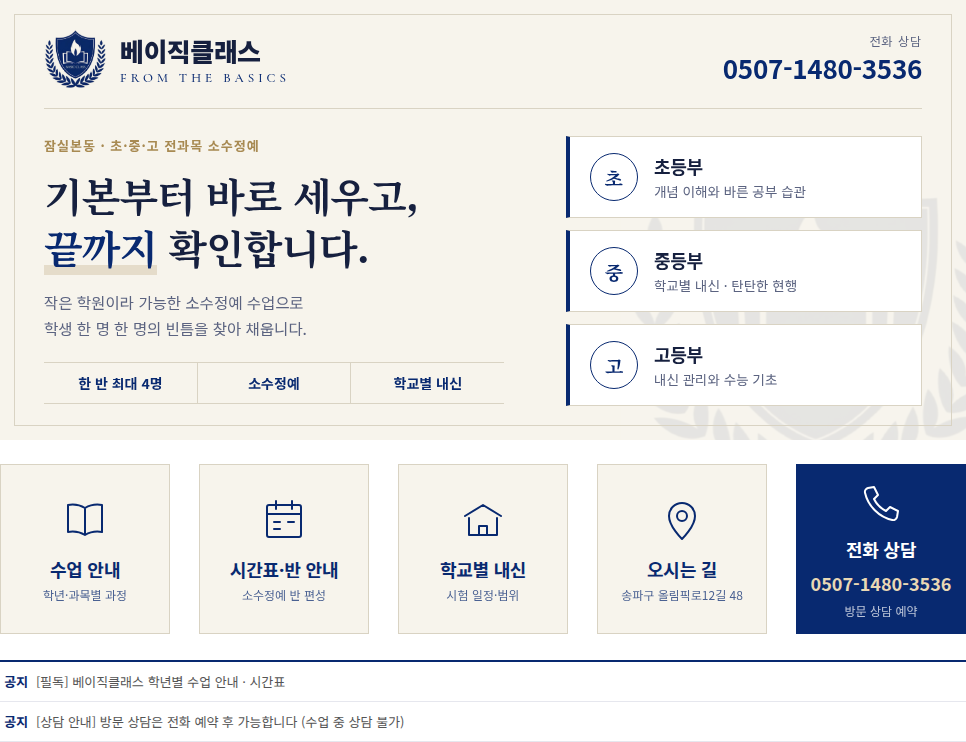
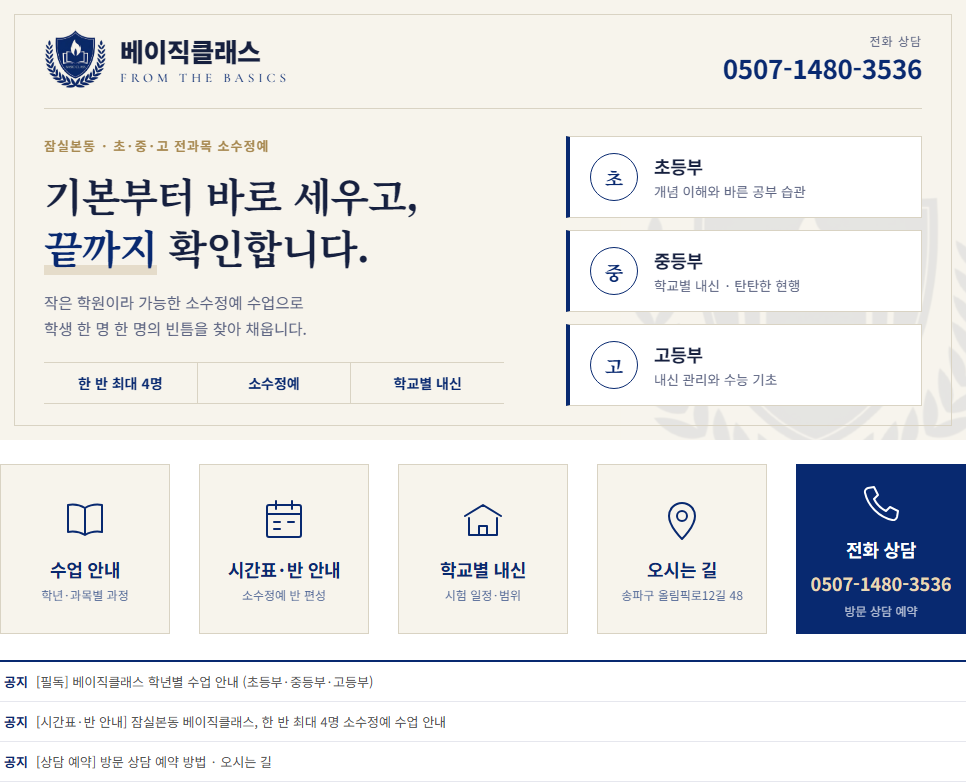
교습비 게시 방침·고정 글 이름 불일치 정리
- 위젯 ②, 글 하단 문구, 법규 표를 "시간표·반 안내 고정 글에만 교습비 게시" 방침에 맞춤
- "초·중·고 전과목" 표현은 교습과목 확인 대기로 표시하고 체크리스트에 확인 항목 추가
- 고정 글 3개 이름을 통일하고 미리보기 공지 목록을 3줄로 바꿔 재출력

diff --git a/academy-blog/src/design.html b/academy-blog/src/design.html
@@ -165,8 +165,9 @@
     for (let i = 1; i <= 5; i++) row.appendChild(clone('btn-' + i));
     p.appendChild(row);
     const n = document.createElement('div'); n.className = 'notice';
-    n.innerHTML = '<div><span>공지</span>[필독] 베이직클래스 학년별 수업 안내 · 시간표</div>' +
-                  '<div><span>공지</span>[상담 안내] 방문 상담은 전화 예약 후 가능합니다 (수업 중 상담 불가)</div>';
+    n.innerHTML = '<div><span>공지</span>[필독] 베이직클래스 학년별 수업 안내 (초등부·중등부·고등부)</div>' +
+                  '<div><span>공지</span>[시간표·반 안내] 잠실본동 베이직클래스, 한 반 최대 4명 소수정예 수업 안내</div>' +
+                  '<div><span>공지</span>[상담 예약] 방문 상담 예약 방법 · 오시는 길</div>';
     p.appendChild(n);
     out.appendChild(p);
   }

diff --git a/academy-blog/블로그_개편안.md b/academy-blog/블로그_개편안.md
@@ -39,7 +39,7 @@
 |---|---|---|---|
 | 타이틀 이미지 | `images/title_966x440.png` | 966×440 | 브랜드·핵심 메시지·학년 안내·전화번호 |
 | 위젯 ① 수업 안내 | `images/btn1_170x170.png` | 170×170 | → 학년별 수업 안내 고정 글 |
-| 위젯 ② 시간표·반 안내 | `images/btn2_170x170.png` | 170×170 | → 시간표·반 편성 안내 글 (교습비 제외, 6장 참조) |
+| 위젯 ② 시간표·반 안내 | `images/btn2_170x170.png` | 170×170 | → 시간표·반 안내 고정 글 (블로그에서 교습비를 싣는 유일한 곳, 6.1) |
 | 위젯 ③ 학교별 내신 | `images/btn3_170x170.png` | 170×170 | → "잠실 학교별 내신 정보" 카테고리 (5장, 검색 유입의 핵심) |
 | 위젯 ④ 오시는 길 | `images/btn4_170x170.png` | 170×170 | → 네이버 지도(플레이스) 링크 |
 | 위젯 ⑤ **전화 상담 (주 버튼)** | `images/btn5_170x170.png` | 170×170 | → **네이버 플레이스 URL** (모바일에서는 플레이스의 "전화" 버튼으로 스마트콜 연결, 4.1 참조) |
@@ -51,6 +51,7 @@
 - 톤: 로고 방패의 남색(`#082970`)을 주색으로, 아이보리 바탕과 명조 제목으로 차분하고 신뢰감 있게 구성했습니다. 강조색은 채도가 낮은 금색 한 가지만 씁니다.
 - **상담 창구는 전화 하나로 통일했습니다.** 카카오톡 상담은 운영하지 않으므로 버튼 5개 중 전화 상담만 남색으로 채워 가장 눈에 띄게 했습니다. 나머지 4개는 아이보리입니다. 전화번호는 타이틀 오른쪽 위, 전화 버튼, 모바일 커버, 모든 글 하단의 네 곳에 반복해 넣었습니다.
 - 성적 향상 수치나 합격 실적처럼 **검증 자료가 없는 주장은 넣지 않았습니다.** 넣으려면 기간·표본·산출 기준을 함께 표시해야 합니다(6장).
+- **"초·중·고 전과목" 표현은 확인 대기 중입니다.** 2017년 교습비 게시표에는 초등 영어·국어·사회·과학이 없습니다. 현재 등록된 교습과목도 같다면 타이틀·모바일 커버·글 하단 문구의 이 표현을 "초등 수학, 중·고등 전과목" 같은 사실대로의 표현으로 바꾸고 이미지를 다시 출력합니다(`고정글_시간표반안내.md` 확인 요청 참조).
 - 학년 카드의 문구(예: "개념 이해와 바른 공부 습관")는 초안입니다. 실제 커리큘럼에 맞게 `src/design.html`에서 고친 뒤 다시 출력하면 됩니다.
 
 ---
@@ -84,14 +85,14 @@
 1. **모바일 커버 이미지**(블로그 앱 → 내 블로그 → 홈 편집): `images/mobile_cover_1080.png`(1080×1080)을 사용합니다. 로고·슬로건·헤드라인·전화번호만 넣었습니다.
 2. **대표 글(공지) 3개 고정**
    - [필독] 베이직클래스 학년별 수업 안내 (초등부·중등부·고등부)
-   - [시간표·반 안내] 2026년 ○학기 학년별 시간표와 소수정예 반 편성
+   - [시간표·반 안내] 잠실본동 베이직클래스, 한 반 최대 4명 소수정예 수업 안내 (원고: `고정글_시간표반안내.md`, 교습비 포함)
    - [상담 예약] 방문 상담 예약 방법 · 오시는 길
 3. **모든 글 하단에 들어갈 상담 문구**(글감 → 템플릿으로 저장)
 
    > **베이직클래스 · 잠실본동 초·중·고 전과목 소수정예**
    > 📞 **상담 전화 0507-1480-3536** (모바일에서 번호를 누르면 바로 연결됩니다)
    > 📍 서울 송파구 올림픽로12길 48, 301호
-   > ※ 수업 중에는 방문 상담이 어렵습니다. 전화로 예약 후 방문해 주세요. 교습비와 반 편성은 상담 시 자세히 안내드립니다.
+   > ※ 수업 중에는 방문 상담이 어렵습니다. 전화로 예약 후 방문해 주세요. 반 편성과 교습비는 [시간표·반 안내] 글에서 보실 수 있습니다.
 
    이 블록 아래에 **네이버 지도(장소) 첨부**를 반드시 넣습니다. 글과 플레이스가 연결되어 지역 검색에 도움이 됩니다.
 
@@ -177,14 +178,14 @@
 | 항목 | 근거 | 조치 |
 |---|---|---|
 | **선행학습 유발 광고 금지** | 「공교육 정상화 촉진 및 선행교육 규제에 관한 특별법」 제8조(학원 등의 선행학습 유발 광고·선전 금지) | "선행", "○년 앞서" 같은 표현을 배너·제목·해시태그에서 삭제합니다. 대체 표현: "탄탄한 현행", "학교 진도에 맞춘 완전 학습" |
-| **교습비 게시·표시** | 「학원의 설립·운영 및 과외교습에 관한 법률」 제15조(교습비등) 및 시행령 | 블로그에는 교습비를 싣지 않는 것을 기본으로 합니다. 다만 블로그가 **학원 광고로 보아 교습비 표시 의무가 적용되는지** 강동송파교육지원청 평생교육 담당에 먼저 확인합니다 (6.1) |
+| **교습비 게시·표시** | 「학원의 설립·운영 및 과외교습에 관한 법률」 제15조(교습비등) 및 시행령 | 교습비는 "시간표·반 안내" 고정 글 한 곳에만 **교육청 등록 금액 그대로** 게시합니다. 배너·버튼·다른 글에는 넣지 않습니다. 게시 형식이 충분한지는 강동송파교육지원청 평생교육 담당에 확인합니다 (6.1) |
 | 성적·합격 실적 표현 | 「표시·광고의 공정화에 관한 법률」 (거짓·과장 광고 금지) | "성적이 달라집니다" 같은 결과 보장 문구는 쓰지 않습니다. 실적을 올린다면 기간·인원·기준을 명시합니다 |
 | 후기·리뷰 | 공정위 「추천·보증 등에 관한 표시·광고 심사지침」 | 대가를 준 후기는 "소정의 대가를 받음"을 표시합니다. 가능하면 대가 없는 후기만 씁니다 |
 | 학생 사진·성적표 | 「개인정보 보호법」, 초상권 | 보호자의 서면 동의를 받습니다. 얼굴·이름·학교를 가립니다 |
 
 > 조문 번호와 세부 의무는 개정될 수 있으므로, 게시 전에 법제처 국가법령정보센터(law.go.kr) 최신본으로 확인하십시오.
 
-### 6.1 교습비 비공개에 대한 판단
+### 6.1 교습비 게시 범위에 대한 판단
 
 > **2026-09 갱신**: 원장님 결정에 따라 교습비를 **"시간표·반 안내" 고정 글 한 곳에만** 게시합니다. 원고는 `고정글_시간표반안내.md`에 있습니다. 배너·버튼·다른 글에는 교습비를 넣지 않습니다. 게시표가 2017-11-28자이므로 **현재 등록된 금액인지 먼저 확인**하십시오. 아래는 비공개를 검토할 때 정리한 내용으로, 참고용으로 남겨 둡니다.
 
@@ -199,10 +200,11 @@
 ## 7. 실행 체크리스트
 
 - [ ] 오타·"선행" 문구가 있는 기존 배너 즉시 교체 (1일)
-- [ ] 강동송파교육지원청에 블로그 교습비 표시 의무 문의 (1주)
+- [ ] 교습비·교습과목 현재 등록 내용 확인 (2017-11-28 게시표 이후 변경 여부) → 고정 글 금액과 "초·중·고 전과목" 표현 확정 (1일)
+- [ ] 강동송파교육지원청에 블로그 교습비 게시 형식 문의 (1주)
 - [ ] 스마트콜 수신 안내 멘트 켜기 + 착신전환 시험 통화 + 기존 글의 02 번호 교체 (1일, 4.1)
 - [ ] 타이틀·위젯·스킨 배경 적용, 반복 버그 확인 (1일)
-- [ ] 고정 글 3개 작성: 수업 안내 / 시간표·반 안내 / 전화 상담 예약 (1주)
+- [ ] 고정 글 3개 작성: [필독] 학년별 수업 안내 / [시간표·반 안내] / [상담 예약] 방문 상담 예약 방법 · 오시는 길 (1주, 4장)
 - [ ] 카테고리 재편: 기존 글은 새 카테고리로 이동하고, 삭제하지 않음 (1주)
 - [ ] 글 하단 상담 템플릿 저장, 모바일 커버 설정 (1주)
 - [ ] 스마트플레이스 정보 갱신·블로그 연결 (1주)
